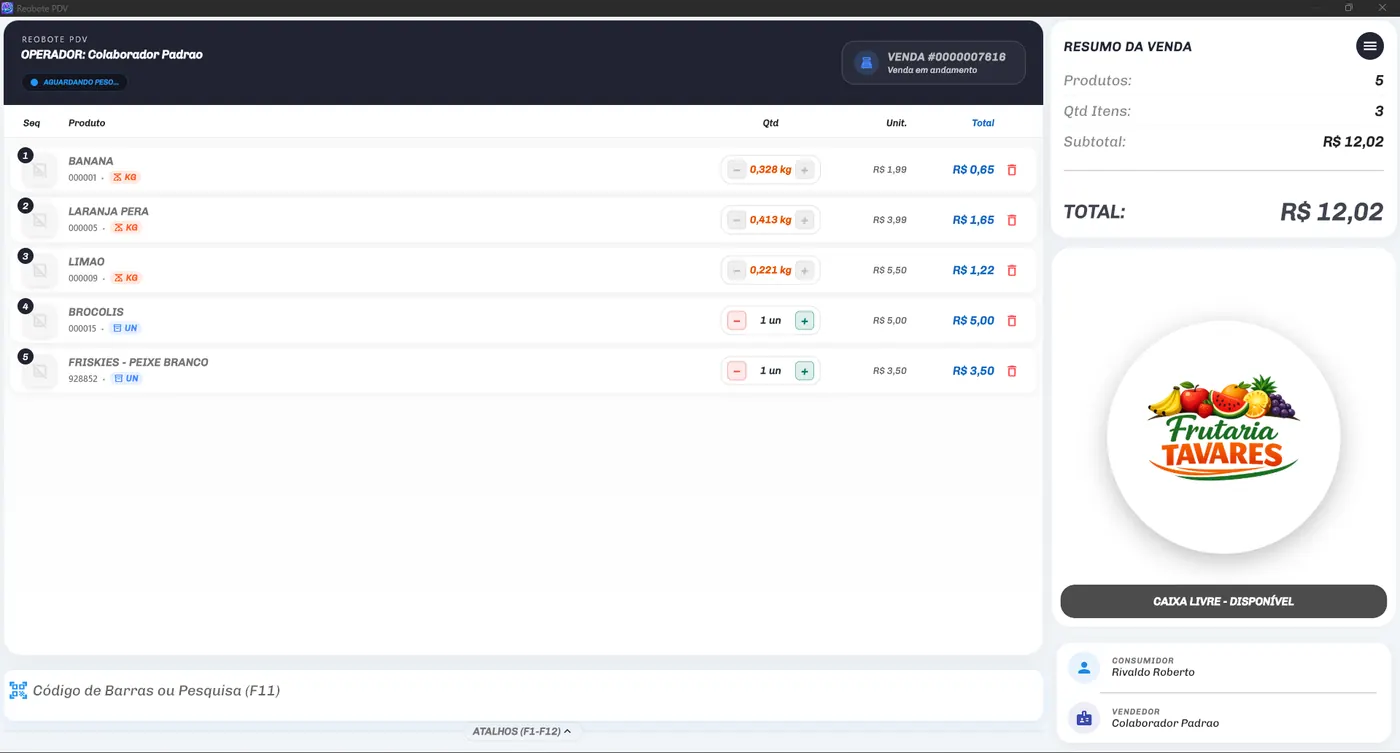
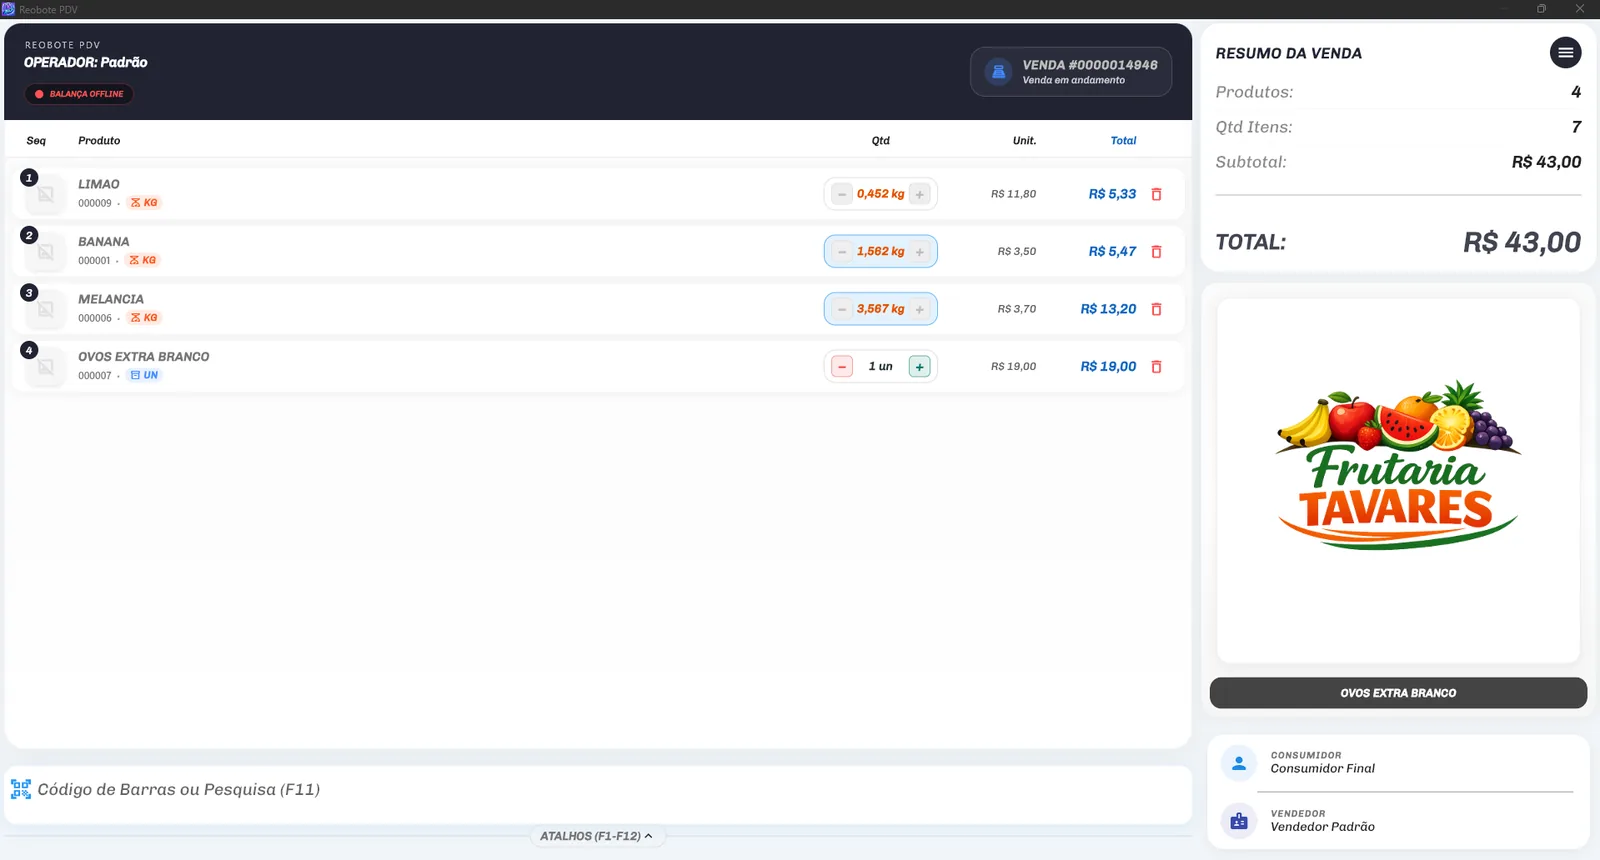
Update Reobote PDV screens and company dashboard visual.
Replaces outdated PDV captures with current sales, monitor, management,
stock and finance screens, and refreshes the about-section dashboard.

diff --git a/index.html b/index.html
@@ -277,9 +277,29 @@
                     aria-selected="false"
                     data-webp="assets/images/desempenho-venda-diaria.webp"
                     data-src="assets/images/desempenho-venda-diaria.png"
-                    data-alt="Desempenho de venda diária do Reobote PDV"
+                    data-alt="Visão gerencial do Reobote PDV"
                   >
-                    Desempenho
+                    Gestão
+                  </button>
+                  <button
+                    type="button"
+                    role="tab"
+                    aria-selected="false"
+                    data-webp="assets/images/pdv-estoque.webp"
+                    data-src="assets/images/pdv-estoque.png"
+                    data-alt="Estoque dos produtos no Reobote PDV"
+                  >
+                    Estoque
+                  </button>
+                  <button
+                    type="button"
+                    role="tab"
+                    aria-selected="false"
+                    data-webp="assets/images/pdv-financeiro.webp"
+                    data-src="assets/images/pdv-financeiro.png"
+                    data-alt="Módulo financeiro do Reobote PDV"
+                  >
+                    Financeiro
                   </button>
                 </div>
               </div>
@@ -596,10 +616,10 @@
           <div class="pdv-showcase product-showcase" data-reveal>
             <div class="product-showcase-copy">
               <span class="section-kicker">Reobote PDV</span>
-              <h3>Venda, monitor e desempenho no mesmo fluxo</h3>
+              <h3>Venda, monitor e visão gerencial no mesmo fluxo</h3>
               <p>
                 Telas reais do PDV: operação de caixa, acompanhamento das vendas
-                e visão do desempenho diário para fechar o dia com clareza.
+                e visão gerencial para fechar o dia com clareza.
               </p>
             </div>
             <div class="product-showcase-grid">
@@ -636,14 +656,14 @@
                   <source srcset="assets/images/desempenho-venda-diaria.webp" type="image/webp" />
                   <img
                     src="assets/images/desempenho-venda-diaria.png"
-                    alt="Desempenho de venda diária"
+                    alt="Visão gerencial do PDV"
                     width="960"
                     height="520"
                     loading="lazy"
                     decoding="async"
                   />
                 </picture>
-                <figcaption>Desempenho diário</figcaption>
+                <figcaption>Visão gerencial</figcaption>
               </figure>
             </div>
           </div>

diff --git a/README.md b/README.md
@@ -46,7 +46,7 @@ O botão de WhatsApp na seção de contato usa o número **(41) 99208-8544**:
 Capturas reais em `assets/images/`:
 
 **Pedido Digital:** `cardapio-mesas`, `cardapio-pedidos`, `cardapio-entregadores`  
-**Reobote PDV:** `tela-pdv`, `monitor-venda`, `desempenho-venda-diaria`  
+**Reobote PDV:** `tela-pdv`, `monitor-venda`, `desempenho-venda-diaria` (visão gerencial), `pdv-estoque`, `pdv-financeiro`, `pdv-resumo`  
 **Ordem de Serviços:** `dashboard-de-ordem-servicos`, `os-ordens`, `os-orcamentos`, `os-agenda`, `os-financeiro`  
 **RRS Gabarito:** `gabarito-painel`, `gabarito-estrutura`, `gabarito-resultados`, `gabarito-mobile`, `gabarito-scan`
 
